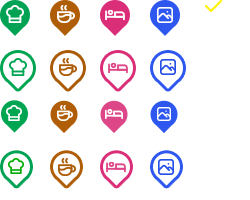
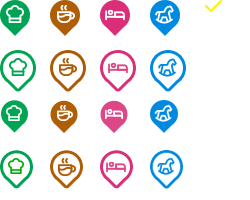
2024 정이품보은군민 신규

diff --git a/2024boeuncyber/site/cyber/main.html b/2024boeuncyber/site/cyber/main.html
@@ -627,7 +627,7 @@
                                                 </div>    <!--//book_t_item-->
                                                 <div class="book_t_item" data-tour="4">
                                                     <button type="button" class="book_t_btn">
-                                                        <span class="btn_inner">관광명소</span>    <!--//btn_inner-->
+                                                        <span class="btn_inner">체험</span>    <!--//btn_inner-->
                                                     </button>    <!--//book_t_btn-->
                                                 </div>    <!--//book_t_item-->
                                             </div>    <!--//book_t_list-->
@@ -787,7 +787,7 @@
                                                                 <button type="button" class="control_btn next">다음 슬라이드</button>    <!--//control_btn next-->
                                                             </div>    <!--//control_inner-->
                                                             <span class="more_inner">
-                                                                <a href="" title="보은군 가맹점 식당 더보기" class="more_link">바로가기</a>    <!--//more_link-->
+                                                                <a href="../../mapCyber/map.html?category=1" title="보은군 가맹점 식당 더보기" class="more_link">바로가기</a>    <!--//more_link-->
                                                             </span>    <!--//more_inner-->
                                                         </div>    <!--//slide_control-->
                                                     </div>    <!--//slide_wrap-->
@@ -945,7 +945,7 @@
                                                                 <button type="button" class="control_btn next">다음 슬라이드</button>    <!--//control_btn next-->
                                                             </div>    <!--//control_inner-->
                                                             <span class="more_inner">
-                                                                <a href="" title="보은군 가맹점 카페 더보기" class="more_link">바로가기</a>    <!--//more_link-->
+                                                                <a href="../../mapCyber/map.html?category=2" title="보은군 가맹점 카페 더보기" class="more_link">바로가기</a>    <!--//more_link-->
                                                             </span>    <!--//more_inner-->
                                                         </div>    <!--//slide_control-->
                                                     </div>    <!--//slide_wrap-->
@@ -1241,7 +1241,7 @@
                                                                 <button type="button" class="control_btn next">다음 슬라이드</button>    <!--//control_btn next-->
                                                             </div>    <!--//control_inner-->
                                                             <span class="more_inner">
-                                                                <a href="" title="보은군 가맹점 숙박 더보기" class="more_link">바로가기</a>    <!--//more_link-->
+                                                                <a href="../../mapCyber/map.html?category=3" title="보은군 가맹점 숙박 더보기" class="more_link">바로가기</a>    <!--//more_link-->
                                                             </span>    <!--//more_inner-->
                                                         </div>    <!--//slide_control-->
                                                     </div>    <!--//slide_wrap-->
@@ -1253,9 +1253,9 @@
                                                                 <a href="" class="slide_link">
                                                                     <span class="img_wrap">
                                                                         <i style="background-image:url(https://via.placeholder.com/487x267);" class="view_img"></i>    <!--//view_img-->
-                                                                        <img src="https://via.placeholder.com/487x267" alt="관광명소1 사진" class="hidden_img" />    <!--//hidden_img-->
+                                                                        <img src="https://via.placeholder.com/487x267" alt="체험1 사진" class="hidden_img" />    <!--//hidden_img-->
                                                                     </span>    <!--//img_wrap-->
-                                                                    <em class="title">관광명소1</em>    <!--//title-->
+                                                                    <em class="title">체험1</em>    <!--//title-->
                                                                     <span class="info_list">
                                                                         <span class="info_item location">
                                                                             <em class="info_title">주소</em>    <!--//info_title-->
@@ -1278,7 +1278,7 @@
                                                                         <!--//등록 될 이미지가 없을 경우-->
                                                                         등록된 이미지가 없습니다
                                                                     </span>    <!--//img_wrap-->
-                                                                    <em class="title">관광명소2</em>    <!--//title-->
+                                                                    <em class="title">체험2</em>    <!--//title-->
                                                                     <span class="info_list">
                                                                         <span class="info_item location">
                                                                             <em class="info_title">주소</em>    <!--//info_title-->
@@ -1301,7 +1301,7 @@
                                                                         <!--//등록 될 이미지가 없을 경우-->
                                                                         등록된 이미지가 없습니다
                                                                     </span>    <!--//img_wrap-->
-                                                                    <em class="title">관광명소3</em>    <!--//title-->
+                                                                    <em class="title">체험3</em>    <!--//title-->
                                                                     <span class="info_list">
                                                                         <span class="info_item location">
                                                                             <em class="info_title">주소</em>    <!--//info_title-->
@@ -1324,7 +1324,7 @@
                                                                         <!--//등록 될 이미지가 없을 경우-->
                                                                         등록된 이미지가 없습니다
                                                                     </span>    <!--//img_wrap-->
-                                                                    <em class="title">관광명소4</em>    <!--//title-->
+                                                                    <em class="title">체험4</em>    <!--//title-->
                                                                     <span class="info_list">
                                                                         <span class="info_item location">
                                                                             <em class="info_title">주소</em>    <!--//info_title-->
@@ -1347,7 +1347,7 @@
                                                                         <!--//등록 될 이미지가 없을 경우-->
                                                                         등록된 이미지가 없습니다
                                                                     </span>    <!--//img_wrap-->
-                                                                    <em class="title">관광명소5</em>    <!--//title-->
+                                                                    <em class="title">체험5</em>    <!--//title-->
                                                                     <span class="info_list">
                                                                         <span class="info_item location">
                                                                             <em class="info_title">주소</em>    <!--//info_title-->
@@ -1370,7 +1370,7 @@
                                                                         <!--//등록 될 이미지가 없을 경우-->
                                                                         등록된 이미지가 없습니다
                                                                     </span>    <!--//img_wrap-->
-                                                                    <em class="title">관광명소6</em>    <!--//title-->
+                                                                    <em class="title">체험6</em>    <!--//title-->
                                                                     <span class="info_list">
                                                                         <span class="info_item location">
                                                                             <em class="info_title">주소</em>    <!--//info_title-->
@@ -1393,7 +1393,7 @@
                                                                         <!--//등록 될 이미지가 없을 경우-->
                                                                         등록된 이미지가 없습니다
                                                                     </span>    <!--//img_wrap-->
-                                                                    <em class="title">관광명소7</em>    <!--//title-->
+                                                                    <em class="title">체험7</em>    <!--//title-->
                                                                     <span class="info_list">
                                                                         <span class="info_item location">
                                                                             <em class="info_title">주소</em>    <!--//info_title-->
@@ -1416,7 +1416,7 @@
                                                                         <!--//등록 될 이미지가 없을 경우-->
                                                                         등록된 이미지가 없습니다
                                                                     </span>    <!--//img_wrap-->
-                                                                    <em class="title">관광명소8</em>    <!--//title-->
+                                                                    <em class="title">체험8</em>    <!--//title-->
                                                                     <span class="info_list">
                                                                         <span class="info_item location">
                                                                             <em class="info_title">주소</em>    <!--//info_title-->
@@ -1439,7 +1439,7 @@
                                                                         <!--//등록 될 이미지가 없을 경우-->
                                                                         등록된 이미지가 없습니다
                                                                     </span>    <!--//img_wrap-->
-                                                                    <em class="title">관광명소9</em>    <!--//title-->
+                                                                    <em class="title">체험9</em>    <!--//title-->
                                                                     <span class="info_list">
                                                                         <span class="info_item location">
                                                                             <em class="info_title">주소</em>    <!--//info_title-->
@@ -1462,7 +1462,7 @@
                                                                         <!--//등록 될 이미지가 없을 경우-->
                                                                         등록된 이미지가 없습니다
                                                                     </span>    <!--//img_wrap-->
-                                                                    <em class="title">관광명소10</em>    <!--//title-->
+                                                                    <em class="title">체험10</em>    <!--//title-->
                                                                     <span class="info_list">
                                                                         <span class="info_item location">
                                                                             <em class="info_title">주소</em>    <!--//info_title-->
@@ -1485,7 +1485,7 @@
                                                                         <!--//등록 될 이미지가 없을 경우-->
                                                                         등록된 이미지가 없습니다
                                                                     </span>    <!--//img_wrap-->
-                                                                    <em class="title">관광명소11</em>    <!--//title-->
+                                                                    <em class="title">체험11</em>    <!--//title-->
                                                                     <span class="info_list">
                                                                         <span class="info_item location">
                                                                             <em class="info_title">주소</em>    <!--//info_title-->
@@ -1508,7 +1508,7 @@
                                                                         <!--//등록 될 이미지가 없을 경우-->
                                                                         등록된 이미지가 없습니다
                                                                     </span>    <!--//img_wrap-->
-                                                                    <em class="title">관광명소12</em>    <!--//title-->
+                                                                    <em class="title">체험12</em>    <!--//title-->
                                                                     <span class="info_list">
                                                                         <span class="info_item location">
                                                                             <em class="info_title">주소</em>    <!--//info_title-->
@@ -1537,7 +1537,7 @@
                                                                 <button type="button" class="control_btn next">다음 슬라이드</button>    <!--//control_btn next-->
                                                             </div>    <!--//control_inner-->
                                                             <span class="more_inner">
-                                                                <a href="" title="보은군 가맹점 관광명소 더보기" class="more_link">바로가기</a>    <!--//more_link-->
+                                                                <a href="../../mapCyber/map.html?category=4" title="보은군 가맹점 체험 더보기" class="more_link">바로가기</a>    <!--//more_link-->
                                                             </span>    <!--//more_inner-->
                                                         </div>    <!--//slide_control-->
                                                     </div>    <!--//slide_wrap-->

diff --git a/2024boeuncyber/site/cyber/css/main_layout.css b/2024boeuncyber/site/cyber/css/main_layout.css
@@ -825,7 +825,7 @@
 .tour .tour_wrap .tour_wrap_inner .tour_book .book_white_box .white_inner .book_t_box .book_t_list .book_t_item[data-tour="1"] .book_t_btn:before{background-image:linear-gradient(-37deg, #00a552 0%, #00a552 100%);}
 .tour .tour_wrap .tour_wrap_inner .tour_book .book_white_box .white_inner .book_t_box .book_t_list .book_t_item[data-tour="2"] .book_t_btn:before{background-image:linear-gradient(-37deg, #994f00 0%, #af5e07 100%);}
 .tour .tour_wrap .tour_wrap_inner .tour_book .book_white_box .white_inner .book_t_box .book_t_list .book_t_item[data-tour="3"] .book_t_btn:before{background-image:linear-gradient(-37deg, #d30b60 0%, #da2f78 100%);}
-.tour .tour_wrap .tour_wrap_inner .tour_book .book_white_box .white_inner .book_t_box .book_t_list .book_t_item[data-tour="4"] .book_t_btn:before{background-image:linear-gradient(-37deg, #153ed7 0%, #2e57f0 100%);}
+.tour .tour_wrap .tour_wrap_inner .tour_book .book_white_box .white_inner .book_t_box .book_t_list .book_t_item[data-tour="4"] .book_t_btn:before{background-image:linear-gradient(-37deg, #0089e0 0%, #1f9ff0 100%);}
 .tour .tour_wrap .tour_wrap_inner .tour_book .book_white_box .white_inner .book_t_box .book_t_list .book_t_item.active .book_t_btn:before{visibility:visible;opacity:1;}
 .tour .tour_wrap .tour_wrap_inner .tour_book .book_white_box .white_inner .book_t_box .book_t_list .book_t_item .book_t_btn:after{display:block;position:absolute;top:calc(50% - 6px);left:calc(100% + 7px);width:22px;height:12px;background-image:url(../images/main/map_marker_icon.png);background-repeat:no-repeat;background-position:calc(50px * -4) top;content:'';visibility:hidden;opacity:0;transform-origin:0% 100%;transform:scale(0);transition:visibility 500ms cubic-bezier(.215, .61, .355, 1), opacity 500ms cubic-bezier(.215, .61, .355, 1), transform 500ms cubic-bezier(.215, .61, .355, 1);}
 .tour .tour_wrap .tour_wrap_inner .tour_book .book_white_box .white_inner .book_t_box .book_t_list .book_t_item.active .book_t_btn:after{visibility:visible;opacity:1;transform:scale(1);}
